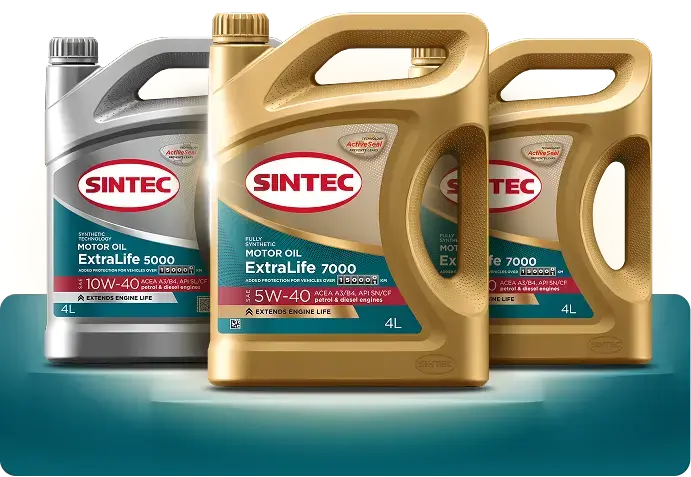
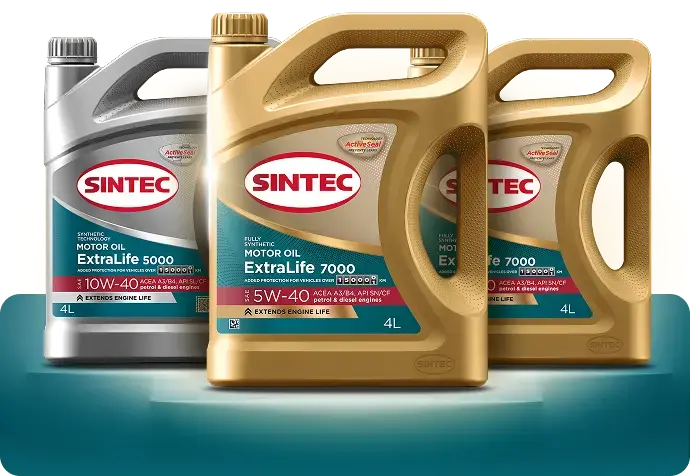
Deploying to gh-pages from @ Unnamed-193/sintec-extra-light@5ff3c082b591677790a80fd5d8e5ec1bc1c3ab58 🚀

diff --git a/index.html b/index.html
@@ -115,7 +115,7 @@
           <div class="line__content">
             <div class="line__left">
               <picture>
-                <source media="(max-width: 768px)" srcset="img/line/line_photo_mobile.webp">
+                <source media="(max-width: 768px)" srcset="img/line/line_photo_mobile.webp 1x, img/line/line_photo_mobile@2x.webp 2x, img/line/line_photo_mobile@3x.webp 3x">
                 <img src="img/line/line_photo.webp"
                   srcset="img/line/line_photo.webp 1x, img/line/line_photo@2x.webp 2x, img/line/line_photo@3x.webp 3x"
                   alt="Фото канистр">
